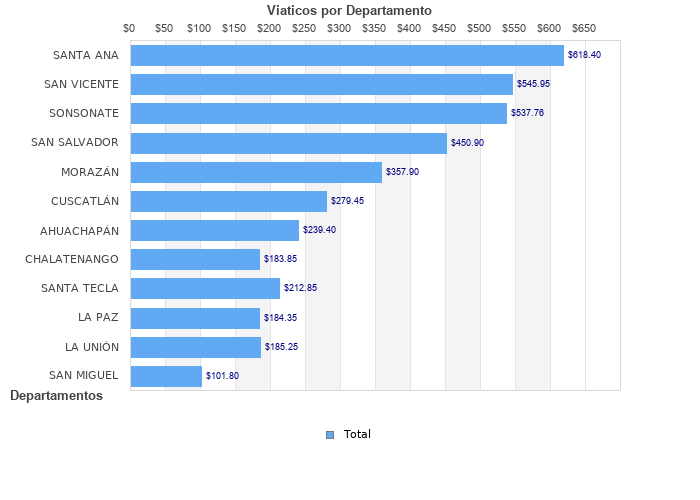
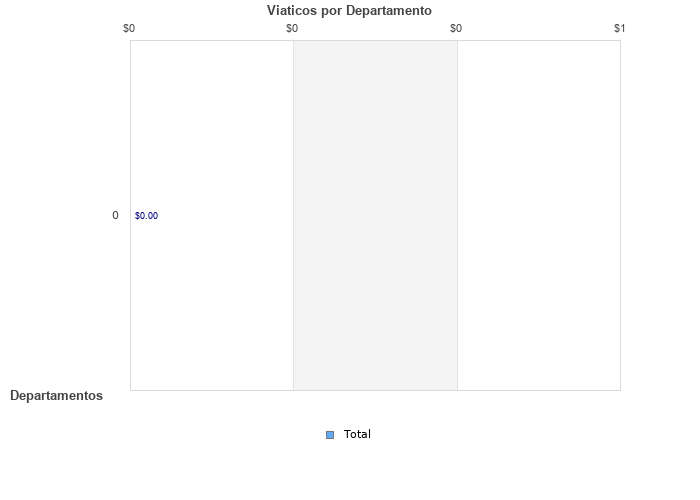
parte de reportes -

Changed region(s): [[0.03, 0.03, 0.9, 0.78], [0.21, 0.03, 0.24, 0.06]]

diff --git a/application/models/Reportes_viaticos_model.php b/application/models/Reportes_viaticos_model.php
@@ -37,13 +37,13 @@ SELECT month(mo.fecha_solicitud) as mes,sum(ev.pasaje) as pasajes,sum(ev.viatico
 */
     function obtenerViaticoAnualxDepto($data){
       
-        $viaticos = $this->db->query("SELECT i.id_oficina_departamental as id_depto, o.id_departamento, depto.departamento, round(SUM(s.viatico),2) AS viatico, round(SUM(s.pasaje),2) AS pasaje, round(SUM(s.alojamiento),2) AS alojamiento, round((SUM(s.viatico)+SUM(s.pasaje)+SUM(s.alojamiento)),2) as total FROM (SELECT ev.viatico, ev.pasaje, ev.alojamiento, m.nr_empleado, m.fecha_solicitud FROM vyp_mision_oficial AS m JOIN vyp_empresa_viatico AS ev ON ev.id_mision = m.id_mision_oficial UNION SELECT 0, p.monto_pasaje, 0, p.nr, p.fecha_solicitud FROM vyp_pasajes AS p) AS s JOIN vyp_informacion_empleado AS i ON s.nr_empleado = i.nr JOIN vyp_oficinas AS o ON o.id_oficina = i.id_oficina_departamental JOIN org_departamento as depto ON depto.id_departamento=o.id_departamento WHERE year(s.fecha_solicitud)='$data' GROUP BY i.id_oficina_departamental ORDER BY SUM(s.viatico) DESC");
+        $viaticos = $this->db->query("SELECT i.id_oficina_departamental as id_depto, o.id_departamento, depto.departamento, round(SUM(s.viatico),2) AS viatico, round(SUM(s.pasaje),2) AS pasaje, round(SUM(s.alojamiento),2) AS alojamiento, round((SUM(s.viatico)+SUM(s.pasaje)+SUM(s.alojamiento)),2) as total FROM (SELECT ev.viatico, ev.pasaje, ev.alojamiento, m.nr_empleado, m.fecha_solicitud,m.estado FROM vyp_mision_oficial AS m JOIN vyp_empresa_viatico AS ev ON ev.id_mision = m.id_mision_oficial UNION SELECT 0, p.monto_pasaje, 0, p.nr, p.fecha_solicitud,p.estado FROM vyp_pasajes AS p) AS s JOIN vyp_informacion_empleado AS i ON s.nr_empleado = i.nr JOIN vyp_oficinas AS o ON o.id_oficina = i.id_oficina_departamental JOIN org_departamento as depto ON depto.id_departamento=o.id_departamento WHERE year(s.fecha_solicitud)='$data' AND s.estado='8' GROUP BY i.id_oficina_departamental ORDER BY SUM(s.viatico) DESC");
         return $viaticos;
     }
     function obtenerViaticoAnual($data)
     {
       $anios = implode(",", $data);//de array a cadena
-        $viaticos = $this->db->query("SELECT year(s.fecha_solicitud) as anio,sum(s.viatico) as viatico,sum(s.pasaje) as pasaje,sum(s.alojamiento) as alojamiento, (sum(s.viatico) + sum(s.pasaje) + sum(s.alojamiento)) as total_anio FROM (SELECT ev.viatico, ev.pasaje, ev.alojamiento, m.nr_empleado, m.fecha_solicitud FROM vyp_mision_oficial AS m JOIN vyp_empresa_viatico AS ev ON ev.id_mision = m.id_mision_oficial UNION SELECT 0, p.monto_pasaje, 0, p.nr, p.fecha_solicitud FROM vyp_pasajes AS p) AS s WHERE YEAR(s.fecha_solicitud) IN ($anios)  group by year(s.fecha_solicitud) order by year(s.fecha_solicitud) desc");
+        $viaticos = $this->db->query("SELECT year(s.fecha_solicitud) as anio,sum(s.viatico) as viatico,sum(s.pasaje) as pasaje,sum(s.alojamiento) as alojamiento, (sum(s.viatico) + sum(s.pasaje) + sum(s.alojamiento)) as total_anio FROM (SELECT ev.viatico, ev.pasaje, ev.alojamiento, m.nr_empleado, m.fecha_solicitud,m.estado FROM vyp_mision_oficial AS m JOIN vyp_empresa_viatico AS ev ON ev.id_mision = m.id_mision_oficial UNION SELECT 0, p.monto_pasaje, 0, p.nr, p.fecha_solicitud,p.estado FROM vyp_pasajes AS p) AS s WHERE YEAR(s.fecha_solicitud) IN ($anios) AND s.estado='8'  group by year(s.fecha_solicitud) order by year(s.fecha_solicitud) desc");
         return $viaticos;
     }
     function obtenerListaviatico_pendiente($data)
@@ -105,13 +105,13 @@ SELECT month(mo.fecha_solicitud) as mes,sum(ev.pasaje) as pasajes,sum(ev.viatico
 
             if($prueba->num_rows()>0){
               if($recursividad=="si"){
-                $viaticos1= $this->db->query("SELECT s.nr_empleado, u.nombre_completo, round(SUM(s.pasaje),2) AS pasajes, round(SUM(s.viatico),2) AS viaticos, round(sum(s.alojamiento),2) as alojamientos,round((SUM(s.pasaje) + SUM(s.viatico) + sum(s.alojamiento)),2) AS total FROM (SELECT ev.viatico, ev.pasaje, ev.alojamiento, m.nr_empleado, m.fecha_solicitud,m.id_mision_oficial FROM vyp_mision_oficial AS m JOIN vyp_empresa_viatico AS ev ON ev.id_mision = m.id_mision_oficial UNION SELECT 0, p.monto_pasaje, 0, p.nr, p.fecha_solicitud,p.id_solicitud_pasaje FROM vyp_pasajes AS p) AS s INNER JOIN org_usuario as u   WHERE YEAR(s.fecha_solicitud) = '$anio' AND s.nr_empleado=u.nr AND u.id_seccion IN (SELECT DISTINCT s4.id_seccion FROM org_seccion as s1 LEFT JOIN org_seccion as s2 ON (s1.id_seccion=s2.depende or s1.id_seccion=s2.id_seccion) LEFT JOIN org_seccion as s3 ON (s2.id_seccion=s3.depende or s2.id_seccion=s3.id_seccion) LEFT JOIN org_seccion as s4 ON (s3.id_seccion=s4.depende or s3.id_seccion=s4.id_seccion) WHERE s1.depende = '$dir')  GROUP BY s.nr_empleado, u.nombre_completo ORDER BY total DESC");
+                $viaticos1= $this->db->query("SELECT s.nr_empleado, u.nombre_completo, round(SUM(s.pasaje),2) AS pasajes, round(SUM(s.viatico),2) AS viaticos, round(sum(s.alojamiento),2) as alojamientos,round((SUM(s.pasaje) + SUM(s.viatico) + sum(s.alojamiento)),2) AS total FROM (SELECT ev.viatico, ev.pasaje, ev.alojamiento, m.nr_empleado, m.fecha_solicitud,m.id_mision_oficial,m.estado FROM vyp_mision_oficial AS m JOIN vyp_empresa_viatico AS ev ON ev.id_mision = m.id_mision_oficial UNION SELECT 0, p.monto_pasaje, 0, p.nr, p.fecha_solicitud,p.id_solicitud_pasaje,p.estado FROM vyp_pasajes AS p) AS s INNER JOIN org_usuario as u   WHERE YEAR(s.fecha_solicitud) = '$anio' AND s.nr_empleado=u.nr AND s.estado='8' AND u.id_seccion IN (SELECT DISTINCT s4.id_seccion FROM org_seccion as s1 LEFT JOIN org_seccion as s2 ON (s1.id_seccion=s2.depende or s1.id_seccion=s2.id_seccion) LEFT JOIN org_seccion as s3 ON (s2.id_seccion=s3.depende or s2.id_seccion=s3.id_seccion) LEFT JOIN org_seccion as s4 ON (s3.id_seccion=s4.depende or s3.id_seccion=s4.id_seccion) WHERE s1.depende = '$dir')  GROUP BY s.nr_empleado, u.nombre_completo ORDER BY total DESC");
               }else{
-                $viaticos1= $this->db->query("SELECT s.nr_empleado, u.nombre_completo, round(SUM(s.pasaje),2) AS pasajes, round(SUM(s.viatico),2) AS viaticos, round(sum(s.alojamiento),2) as alojamientos,round((SUM(s.pasaje) + SUM(s.viatico) + sum(s.alojamiento)),2) AS total FROM (SELECT ev.viatico, ev.pasaje, ev.alojamiento, m.nr_empleado, m.fecha_solicitud,m.id_mision_oficial FROM vyp_mision_oficial AS m JOIN vyp_empresa_viatico AS ev ON ev.id_mision = m.id_mision_oficial UNION SELECT 0, p.monto_pasaje, 0, p.nr, p.fecha_solicitud,p.id_solicitud_pasaje FROM vyp_pasajes AS p) AS s INNER JOIN org_usuario as u   WHERE YEAR(s.fecha_solicitud) = '$anio' AND s.nr_empleado=u.nr AND u.id_seccion = '$dir'  GROUP BY s.nr_empleado, u.nombre_completo ORDER BY total DESC");
+                $viaticos1= $this->db->query("SELECT s.nr_empleado, u.nombre_completo, round(SUM(s.pasaje),2) AS pasajes, round(SUM(s.viatico),2) AS viaticos, round(sum(s.alojamiento),2) as alojamientos,round((SUM(s.pasaje) + SUM(s.viatico) + sum(s.alojamiento)),2) AS total FROM (SELECT ev.viatico, ev.pasaje, ev.alojamiento, m.nr_empleado, m.fecha_solicitud,m.id_mision_oficial,m.estado FROM vyp_mision_oficial AS m JOIN vyp_empresa_viatico AS ev ON ev.id_mision = m.id_mision_oficial UNION SELECT 0, p.monto_pasaje, 0, p.nr, p.fecha_solicitud,p.id_solicitud_pasaje,p.estado FROM vyp_pasajes AS p) AS s INNER JOIN org_usuario as u   WHERE YEAR(s.fecha_solicitud) = '$anio' AND s.estado='8' AND s.nr_empleado=u.nr AND u.id_seccion = '$dir'  GROUP BY s.nr_empleado, u.nombre_completo ORDER BY total DESC");
               }
 
             }else{
-              $viaticos1= $this->db->query("SELECT s.nr_empleado, u.nombre_completo, round(SUM(s.pasaje),2) AS pasajes, round(SUM(s.viatico),2) AS viaticos, round(sum(s.alojamiento),2) as alojamientos,round((SUM(s.pasaje) + SUM(s.viatico) + sum(s.alojamiento)),2) AS total FROM (SELECT ev.viatico, ev.pasaje, ev.alojamiento, m.nr_empleado, m.fecha_solicitud,m.id_mision_oficial FROM vyp_mision_oficial AS m JOIN vyp_empresa_viatico AS ev ON ev.id_mision = m.id_mision_oficial UNION SELECT 0, p.monto_pasaje, 0, p.nr, p.fecha_solicitud,p.id_solicitud_pasaje FROM vyp_pasajes AS p) AS s INNER JOIN org_usuario as u   WHERE YEAR(s.fecha_solicitud) = '$anio' AND s.nr_empleado=u.nr AND u.id_seccion = '$dir'  GROUP BY s.nr_empleado, u.nombre_completo ORDER BY total DESC");
+              $viaticos1= $this->db->query("SELECT s.nr_empleado, u.nombre_completo, round(SUM(s.pasaje),2) AS pasajes, round(SUM(s.viatico),2) AS viaticos, round(sum(s.alojamiento),2) as alojamientos,round((SUM(s.pasaje) + SUM(s.viatico) + sum(s.alojamiento)),2) AS total FROM (SELECT ev.viatico, ev.pasaje, ev.alojamiento, m.nr_empleado, m.fecha_solicitud,m.id_mision_oficial,m.estado FROM vyp_mision_oficial AS m JOIN vyp_empresa_viatico AS ev ON ev.id_mision = m.id_mision_oficial UNION SELECT 0, p.monto_pasaje, 0, p.nr, p.fecha_solicitud,p.id_solicitud_pasaje,p.estado FROM vyp_pasajes AS p) AS s INNER JOIN org_usuario as u   WHERE YEAR(s.fecha_solicitud) = '$anio' AND s.nr_empleado=u.nr AND u.id_seccion = '$dir' AND s.estado='8'  GROUP BY s.nr_empleado, u.nombre_completo ORDER BY total DESC");
             }
         return $viaticos1;
     }
@@ -129,10 +129,10 @@ SELECT month(mo.fecha_solicitud) as mes,sum(ev.pasaje) as pasajes,sum(ev.viatico
       $quinto_mes = $data['quinto_mes'];
       $sexto_mes = $data['sexto_mes'];
       if($primer_mes=='0' && $segundo_mes=='0' && $tercer_mes=='0' && $cuarto_mes=='0' && $quinto_mes=='0' && $sexto_mes=='0'){
-        $viaticos= $this->db->query("SELECT month(s.fecha_solicitud) as mes,ROUND(sum(s.pasaje),2) as pasajes,sum(s.viatico) as viaticos, sum(s.alojamiento) as alojamientos, ROUND(sum(s.viatico)+sum(s.pasaje)+sum(s.alojamiento),2) as total FROM (SELECT ev.viatico, ev.pasaje, ev.alojamiento, m.nr_empleado, m.fecha_solicitud FROM vyp_mision_oficial AS m JOIN vyp_empresa_viatico AS ev ON ev.id_mision = m.id_mision_oficial UNION SELECT 0, p.monto_pasaje, 0, p.nr, p.fecha_solicitud FROM vyp_pasajes AS p) AS s WHERE year(s.fecha_solicitud)='$anio' and month(s.fecha_solicitud) IN ('1','2','3','4','5','6','7','8','9','10','11','12') GROUP by month(s.fecha_solicitud)");
+        $viaticos= $this->db->query("SELECT month(s.fecha_solicitud) as mes,ROUND(sum(s.pasaje),2) as pasajes,sum(s.viatico) as viaticos, sum(s.alojamiento) as alojamientos, ROUND(sum(s.viatico)+sum(s.pasaje)+sum(s.alojamiento),2) as total FROM (SELECT ev.viatico, ev.pasaje, ev.alojamiento, m.nr_empleado, m.fecha_solicitud,m.estado FROM vyp_mision_oficial AS m JOIN vyp_empresa_viatico AS ev ON ev.id_mision = m.id_mision_oficial UNION SELECT 0, p.monto_pasaje, 0, p.nr, p.fecha_solicitud,p.estado FROM vyp_pasajes AS p) AS s WHERE year(s.fecha_solicitud)='$anio' AND s.estado='8' and month(s.fecha_solicitud) IN ('1','2','3','4','5','6','7','8','9','10','11','12') GROUP by month(s.fecha_solicitud)");
         return $viaticos;
       }else{
-        $viaticos= $this->db->query("SELECT month(s.fecha_solicitud) as mes,ROUND(sum(s.pasaje),2) as pasajes,sum(s.viatico) as viaticos, sum(s.alojamiento) as alojamientos, ROUND(sum(s.viatico)+sum(s.pasaje)+sum(s.alojamiento),2) as total FROM (SELECT ev.viatico, ev.pasaje, ev.alojamiento, m.nr_empleado, m.fecha_solicitud FROM vyp_mision_oficial AS m JOIN vyp_empresa_viatico AS ev ON ev.id_mision = m.id_mision_oficial UNION SELECT 0, p.monto_pasaje, 0, p.nr, p.fecha_solicitud FROM vyp_pasajes AS p) AS s WHERE year(s.fecha_solicitud)='$anio' and month(s.fecha_solicitud) IN ('$primer_mes','$segundo_mes','$tercer_mes','$cuarto_mes','$quinto_mes','$sexto_mes') GROUP by month(s.fecha_solicitud)");
+        $viaticos= $this->db->query("SELECT month(s.fecha_solicitud) as mes,ROUND(sum(s.pasaje),2) as pasajes,sum(s.viatico) as viaticos, sum(s.alojamiento) as alojamientos, ROUND(sum(s.viatico)+sum(s.pasaje)+sum(s.alojamiento),2) as total FROM (SELECT ev.viatico, ev.pasaje, ev.alojamiento, m.nr_empleado, m.fecha_solicitud,m.estado FROM vyp_mision_oficial AS m JOIN vyp_empresa_viatico AS ev ON ev.id_mision = m.id_mision_oficial UNION SELECT 0, p.monto_pasaje, 0, p.nr, p.fecha_solicitud,p.estado FROM vyp_pasajes AS p) AS s WHERE year(s.fecha_solicitud)='$anio' AND s.estado='8' and month(s.fecha_solicitud) IN ('$primer_mes','$segundo_mes','$tercer_mes','$cuarto_mes','$quinto_mes','$sexto_mes') GROUP by month(s.fecha_solicitud)");
         return $viaticos;
       }
     }
@@ -160,9 +160,9 @@ SELECT month(mo.fecha_solicitud) as mes,sum(ev.pasaje) as pasajes,sum(ev.viatico
 
       $anio=$data['anio'];
      
-        $viaticos= $this->db->query("SELECT s.id_seccion,s.nombre_seccion,ROUND(sum(s.viatico),2) as viatico,ROUND(sum(s.pasaje),2) as pasaje,ROUND(sum(s.alojamiento),2) as alojamiento,ROUND((sum(s.viatico)+sum(s.pasaje)+sum(s.alojamiento)),2) as total FROM VISTA_VIATICOS as s WHERE s.id_seccion IN (SELECT id_seccion FROM org_seccion) AND year(s.fecha_solicitud)='$anio' GROUP BY s.id_seccion ORDER BY s.viatico desc");
+        $viaticos= $this->db->query("SELECT s.id_seccion,s.nombre_seccion,ROUND(sum(s.viatico),2) as viatico,ROUND(sum(s.pasaje),2) as pasaje,ROUND(sum(s.alojamiento),2) as alojamiento,ROUND((sum(s.viatico)+sum(s.pasaje)+sum(s.alojamiento)),2) as total FROM VISTA_VIATICOS as s WHERE s.id_seccion IN (SELECT id_seccion FROM org_seccion) AND year(s.fecha_solicitud)='$anio' AND s.estado='8' GROUP BY s.id_seccion ORDER BY s.viatico desc");
         return $viaticos;
-    }
+    }//hasta aqui estado de solicitud completado
     function buscar_oficina($data){
        $id_seccion=$data['seccion'];
         $seccion= $this->db->query("select nombre_seccion from org_seccion where id_seccion='$id_seccion'");
@@ -170,18 +170,29 @@ SELECT month(mo.fecha_solicitud) as mes,sum(ev.pasaje) as pasajes,sum(ev.viatico
     }
     function viaticos_por_genero($data){
        $anio=$data['anio'];
-        $viaticos= $this->db->query("SELECT i.id_genero,g.genero, SUM(ev.viatico) AS viatico, SUM(ev.pasaje) AS pasaje, SUM(ev.alojamiento) AS alojamiento, (SUM(ev.viatico)+SUM(ev.pasaje)+SUM(ev.alojamiento)) as total FROM vyp_mision_oficial AS m JOIN sir_empleado AS i ON m.nr_empleado = i.nr JOIN vyp_empresa_viatico AS ev ON ev.id_mision = m.id_mision_oficial JOIN org_genero as g ON g.id_genero=i.id_genero WHERE year(m.fecha_solicitud)='$anio'  GROUP BY i.id_genero ORDER BY SUM(ev.viatico) DESC");
+        $viaticos= $this->db->query("SELECT i.id_genero,g.genero, round(SUM(s.viatico),2) AS viatico, round(SUM(s.pasaje),2) AS pasaje, round(SUM(s.alojamiento),2) AS alojamiento, round((SUM(s.viatico)+SUM(s.pasaje)+SUM(s.alojamiento)),2) as total FROM ( SELECT m.nr_empleado,m.nombre_completo, ev.viatico, ev.pasaje, ev.alojamiento, m.fecha_solicitud,m.id_mision_oficial,ev.id_empresa_viatico FROM vyp_mision_oficial AS m JOIN vyp_empresa_viatico AS ev ON ev.id_mision = m.id_mision_oficial UNION SELECT p.nr,0, 0, p.monto_pasaje, 0, p.fecha_solicitud,p.id_solicitud_pasaje,(rand()) FROM vyp_pasajes AS p) as s JOIN sir_empleado AS i ON s.nr_empleado = i.nr JOIN org_genero as g ON g.id_genero=i.id_genero WHERE year(s.fecha_solicitud)='$anio' GROUP BY i.id_genero ORDER BY SUM(s.viatico) DESC");
         return $viaticos;
     }
     function viaticos_por_mes($data,$primer_mes,$segundo_mes,$tercer_mes,$cuarto_mes,$quinto_mes,$sexto_mes){
        $anios = implode(",", $data);
        if($primer_mes=='0' && $segundo_mes=='0' && $tercer_mes=='0' && $cuarto_mes=='0' && $quinto_mes=='0' && $sexto_mes=='0'){
-        $viaticos= $this->db->query("SELECT year(fecha) as anio,month(fecha) as mes,sum(`viatico`) as viatico,sum(pasaje) as pasaje,sum(alojamiento) as alojamiento, (sum(`viatico`) + sum(pasaje) + sum(alojamiento)) as total_anio FROM `vyp_empresa_viatico` WHERE month(fecha) IN (01,02,03,04,05,06,07,08,09,10,11,12) and YEAR(fecha) IN ($anios)  group by month(fecha),year(`fecha`) order by month(fecha) desc,year(`fecha`) desc");
+        $viaticos= $this->db->query("SELECT year(s.fecha) as anio,month(s.fecha) as mes,round(sum(s.viatico),2) as viatico,round(sum(s.pasaje),2) as pasaje,round(sum(s.alojamiento),2) as alojamiento, round((sum(s.viatico) + sum(s.pasaje) + sum(s.alojamiento)),2) as total_anio FROM ( SELECT m.nr_empleado,m.nombre_completo, ev.viatico, ev.pasaje, ev.alojamiento, m.fecha_solicitud,m.id_mision_oficial,ev.id_empresa_viatico,ev.fecha FROM vyp_mision_oficial AS m JOIN vyp_empresa_viatico AS ev ON ev.id_mision = m.id_mision_oficial UNION SELECT p.nr,0, 0, p.monto_pasaje, 0, p.fecha_solicitud,p.id_solicitud_pasaje,(rand()),p.fecha_solicitud FROM vyp_pasajes AS p ) as s WHERE month(s.fecha) IN (01,02,03,04,05,06,07,08,09,10,11,12) and YEAR(s.fecha) IN ($anios) group by month(s.fecha),year(s.fecha) order by month(s.fecha) desc,year(s.fecha) desc");
         }else{
-          $viaticos= $this->db->query("SELECT year(fecha) as anio,month(fecha) as mes,sum(`viatico`) as viatico,sum(pasaje) as pasaje,sum(alojamiento) as alojamiento, (sum(`viatico`) + sum(pasaje) + sum(alojamiento)) as total_anio FROM `vyp_empresa_viatico` WHERE month(fecha) IN ('$primer_mes','$segundo_mes','$tercer_mes','$cuarto_mes','$quinto_mes','$sexto_mes') and YEAR(fecha) IN ($anios)  group by month(fecha),year(`fecha`) order by month(fecha) desc,year(`fecha`) desc");
+          $viaticos= $this->db->query("SELECT year(s.fecha) as anio,month(s.fecha) as mes,round(sum(s.viatico),2) as viatico,round(sum(s.pasaje),2) as pasaje,round(sum(s.alojamiento),2) as alojamiento, round((sum(s.viatico) + sum(s.pasaje) + sum(s.alojamiento)),2) as total_anio FROM ( SELECT m.nr_empleado,m.nombre_completo, ev.viatico, ev.pasaje, ev.alojamiento, m.fecha_solicitud,m.id_mision_oficial,ev.id_empresa_viatico,ev.fecha FROM vyp_mision_oficial AS m JOIN vyp_empresa_viatico AS ev ON ev.id_mision = m.id_mision_oficial UNION SELECT p.nr,0, 0, p.monto_pasaje, 0, p.fecha_solicitud,p.id_solicitud_pasaje,(rand()),p.fecha_solicitud FROM vyp_pasajes AS p ) as s WHERE month(s.fecha) IN ('$primer_mes','$segundo_mes','$tercer_mes','$cuarto_mes','$quinto_mes','$sexto_mes') and YEAR(s.fecha) IN ($anios) group by month(s.fecha),year(s.fecha) order by month(s.fecha) desc,year(s.fecha) desc");
         }
         return $viaticos;
     }
+
+    /*
+      
+      SELECT s.id_actividad_realizada,act.nombre_vyp_actividades as actividad,year(s.fecha_solicitud) as anio ,month(s.fecha_solicitud) as mes,round(sum(s.viatico),2) as viatico,round(sum(s.pasaje),2) as pasaje,round(sum(s.alojamiento),2) as alojamiento,round((sum(s.viatico)+sum(s.pasaje)+sum(s.alojamiento)),2) as total  
+FROM (
+SELECT m.nr_empleado,m.nombre_completo, ev.viatico, ev.pasaje, ev.alojamiento, m.fecha_solicitud,m.id_mision_oficial,ev.id_empresa_viatico,ev.fecha,m.id_actividad_realizada FROM vyp_mision_oficial AS m JOIN vyp_empresa_viatico AS ev ON ev.id_mision = m.id_mision_oficial UNION SELECT p.nr,0, 0, p.monto_pasaje, 0, p.fecha_solicitud,p.id_solicitud_pasaje,(rand()),p.fecha_solicitud,0 FROM vyp_pasajes AS p 
+) as s
+JOIN vyp_actividades as act ON s.id_actividad_realizada=act.id_vyp_actividades 
+WHERE year(s.fecha_solicitud) IN ($anios) AND month(s.fecha_solicitud) IN (01,02,03,01,02,03,04,05,06,07,08,09,10,11,12) AND s.id_actividad_realizada IN (SELECT id_actividad_realizada FROM vyp_actividades) 
+GROUP BY s.id_actividad_realizada,year(s.fecha_solicitud) ORDER BY month(s.fecha_solicitud) asc
+    */
     function viaticos_por_actividad($data,$primer_mes,$segundo_mes,$tercer_mes,$cuarto_mes,$quinto_mes,$sexto_mes,$id_vyp_actividades){
        $anios = implode(",", $data);
        if($primer_mes=='0' && $segundo_mes=='0' && $tercer_mes=='0' && $cuarto_mes=='0' && $quinto_mes=='0' && $sexto_mes=='0'){
